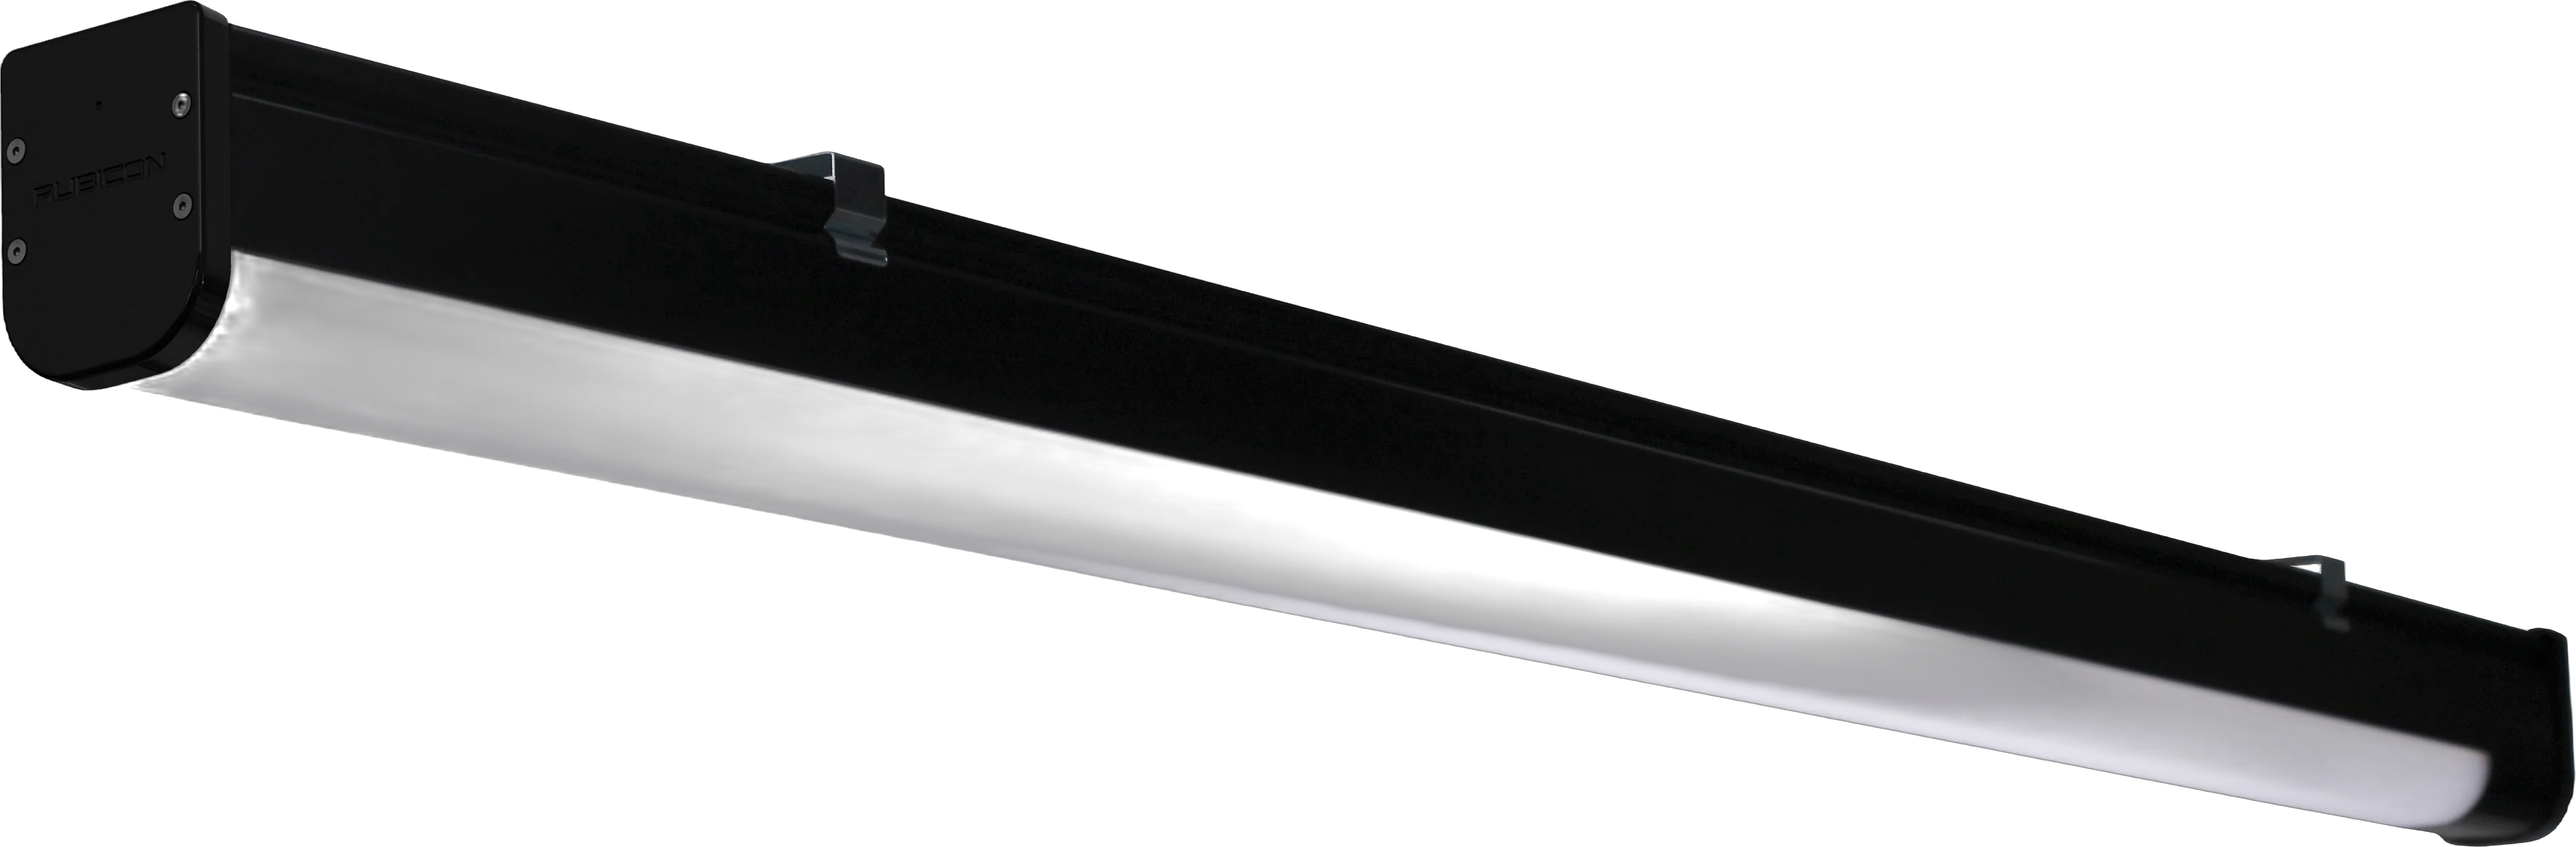
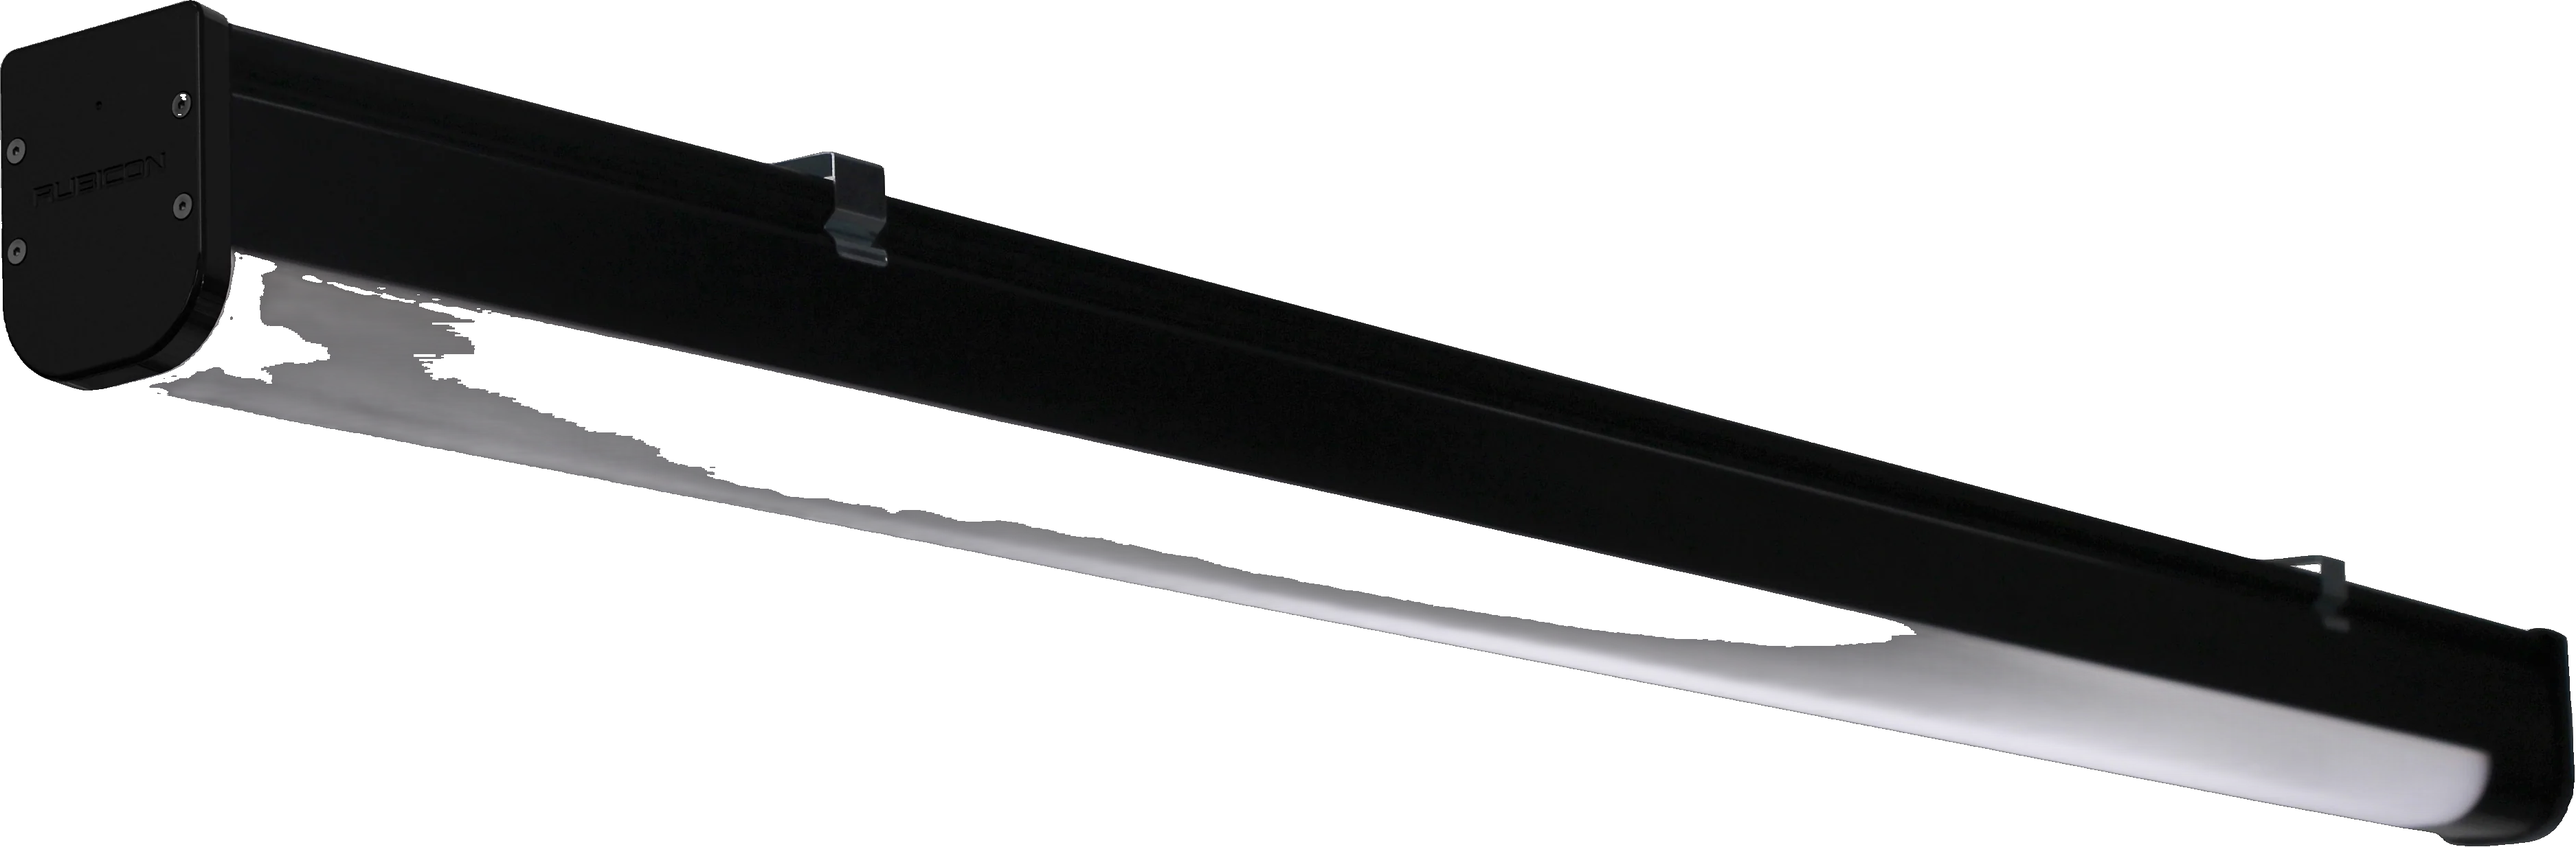
Stop cropping the product, and stop the ghosts showing through it
Two separate faults, both of which read as "the image is cutting bits off".

The card image box was a fixed 224px tall with object-cover, while the tiles are
16:9 with the product centred. A 660x224 card is 2.95:1 against the tile's
1.78:1, so object-cover removed 40% of the product's height — the whole black
heat sink was gone from Small COB Anti-glare, and every card was cropped by
between 7% and 40% depending on the column width. The category cards have always
used aspect-video and were unaffected. The product card now matches, so the whole
fitting shows.

Separately, five cut-outs were still translucent. solidify() stretches the
mid-tones, but a mask sitting broadly around 0.5 just maps to a broad mask around
0.5 — it stays a ghost, and the gradient shows straight through as if the layers
were overlapping. LF40 was 29% solid, Light Sensor 48%, Fabric Tape 60%, Saxa
64%, Protega Gen 2 74%. Anything still below 75% solid is now cut at the midpoint
instead, which keeps the segmented shape and makes it opaque. Healthy cut-outs are
returned untouched, so this only ever affects the ones that were wrong.

Applied to the cached cut-outs directly, so no re-segmentation was needed.

diff --git a/src/components/ProductDetailPage.tsx b/src/components/ProductDetailPage.tsx
@@ -203,10 +203,16 @@ export const ProductDetailPage: React.FC<ProductDetailPageProps> = ({ categoryId
                   {/* Image */}
                   <Link
                     to={`/products/${category.id}/${product.slug}`}
-                    className="relative h-56 overflow-hidden block bg-[#08202C]"
+                    className="relative aspect-video overflow-hidden block bg-[#08202C]"
                     aria-label={product.name}
                   >
-                    {/* tile — the product shot already carries the shared gradient */}
+                    {/*
+                      aspect-video, not a fixed height. The tiles are 16:9 with the
+                      product centred; cropping them to a wider box with object-cover
+                      cut the top and bottom off the fitting — a 660x224 card is
+                      2.95:1 against the tile's 1.78:1, which removed 40% of the
+                      product's height. Matching the aspect shows the whole thing.
+                    */}
                     <img
                       src={getProductImages(product)[0].src}
                       alt={product.name}

diff --git a/scripts/make-cutouts.py b/scripts/make-cutouts.py
@@ -51,6 +51,27 @@ def solidify(alpha, lo=0.30, hi=0.70):
     return (np.clip((f - lo) / (hi - lo), 0, 1) * 255).astype(np.uint8)
 
 
+def harden(alpha, target=0.75, cut=128):
+    """Binarise a mask that is still translucent after solidify().
+
+    solidify() stretches the mid-tones, but a mask that sits broadly around 0.5
+    just maps to a broad mask around 0.5 — it stays a ghost. LF40 came out 29%
+    solid, Light Sensor 48%, Fabric Tape 60%: on the gradient the backdrop shows
+    straight through them and they read as overlapping layers rather than a
+    product.
+
+    Anything still below `target` solid is cut at the midpoint instead, which
+    keeps the segmented shape and makes it opaque. A healthy cut-out is returned
+    untouched.
+    """
+    sub = alpha > 10
+    if not sub.any():
+        return alpha
+    if (alpha >= 250)[sub].mean() >= target:
+        return alpha
+    return np.where(alpha >= cut, 255, 0).astype(np.uint8)
+
+
 def _largest_component(mask):
     """Keep only the biggest connected blob, so JPEG speckle is dropped."""
     img = Image.fromarray(mask, 'L')
